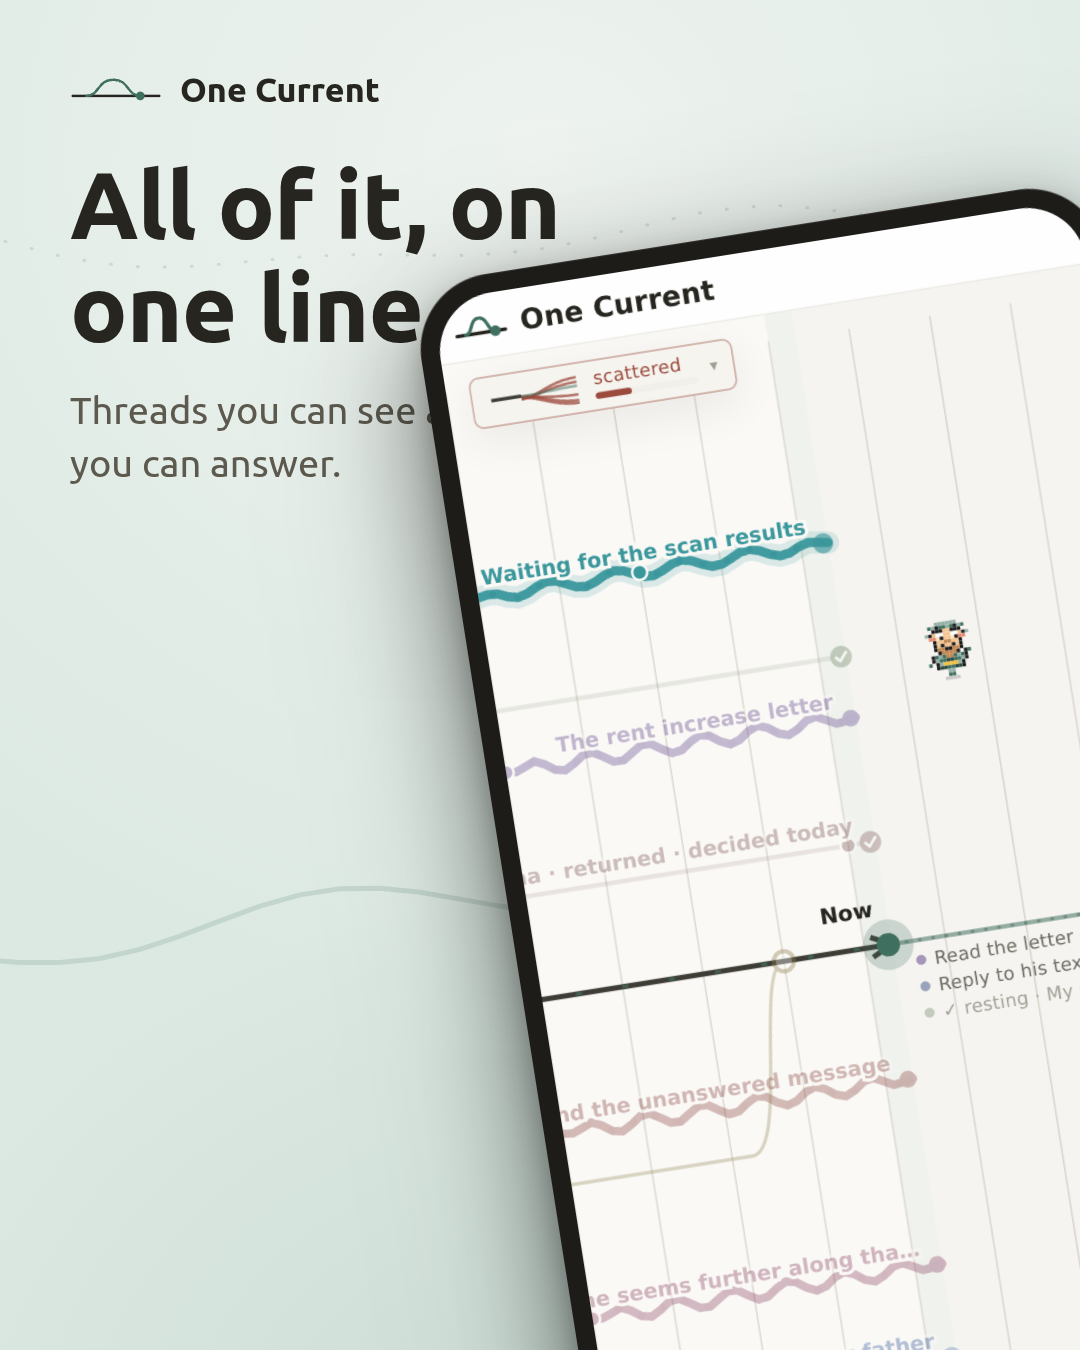
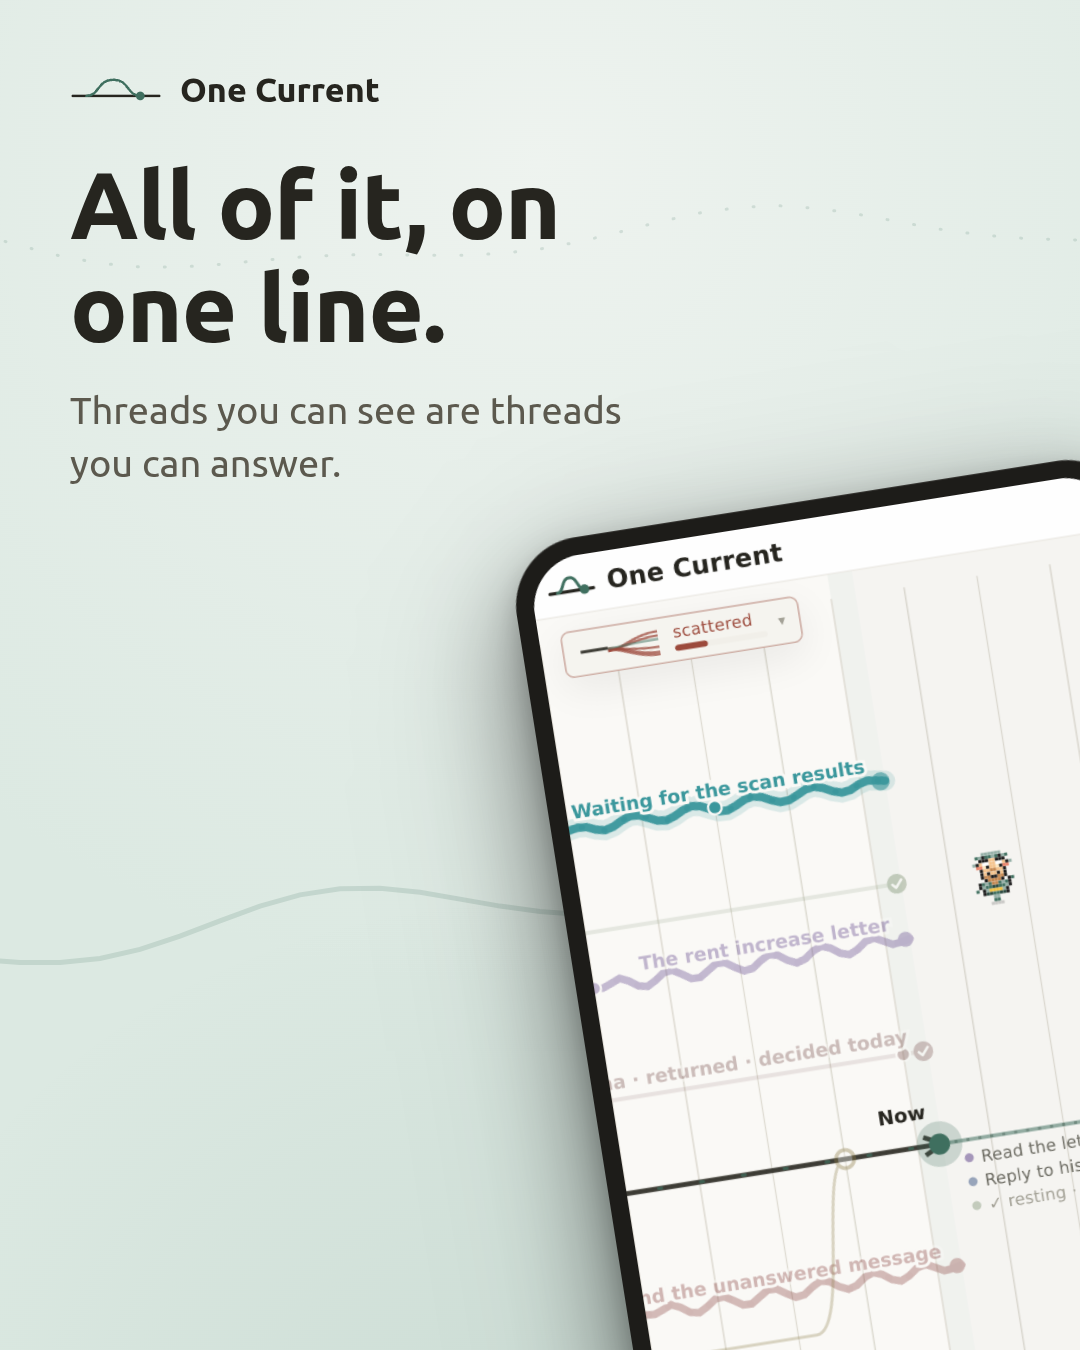
Tilt posters: keep copy clear of the phone on 4:5 and left tilts

diff --git a/promo/src/PosterComp.tsx b/promo/src/PosterComp.tsx
@@ -205,20 +205,29 @@ export const PosterComp: React.FC<{ def: PosterDef }> = ({ def }) => {
         <>
           <AbsoluteFill style={{ padding: pad, display: "flex", flexDirection: "column", gap: 44 }}>
             <BrandRow ink={ink} sub={sub} />
-            <div style={{ maxWidth: width * 0.55 }}>{Header}</div>
+            <div
+              style={{
+                maxWidth: width * 0.55,
+                // keep the copy on the opposite side of the rising phone corner
+                alignSelf: def.tiltSide === "left" ? "flex-end" : "flex-start",
+              }}
+            >
+              {Header}
+            </div>
           </AbsoluteFill>
           <div
             style={{
               position: "absolute",
               ...(def.tiltSide === "left"
-                ? { left: -width * 0.12 }
-                : { right: -width * 0.12 }),
-              bottom: -width * 0.3,
+                ? { left: -width * 0.14 }
+                : { right: -width * 0.14 }),
+              // squarer formats leave less air — sink the phone further down
+              bottom: tall > 1.5 ? -width * 0.26 : -width * 0.42,
               transform: `rotate(${def.tiltSide === "left" ? 9 : -9}deg)`,
               filter: "drop-shadow(0 40px 70px rgba(0,0,0,0.32))",
             }}
           >
-            <PhoneFrame width={Math.round(width * 0.64)}>
+            <PhoneFrame width={Math.round(width * (tall > 1.5 ? 0.64 : 0.58))}>
               {def.still ? <Img src={staticFile(`stills/${def.still}`)} style={{ width: "100%", display: "block" }} /> : null}
             </PhoneFrame>
           </div>
